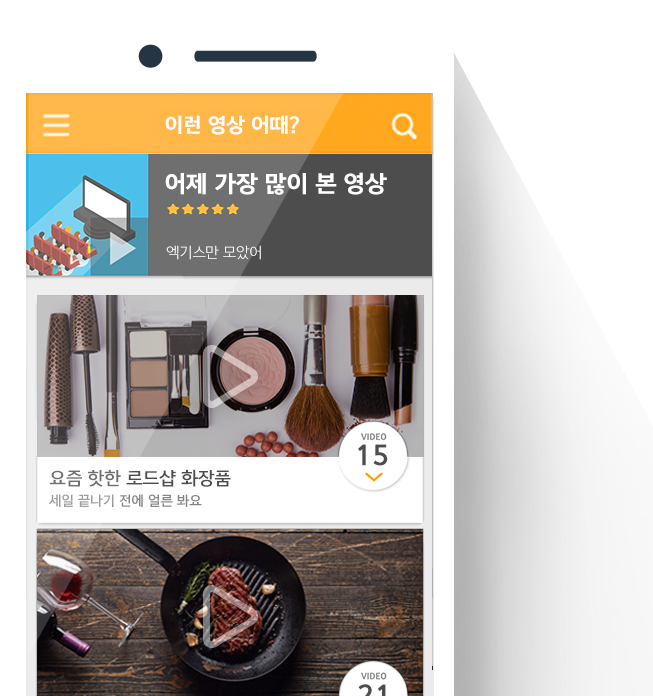
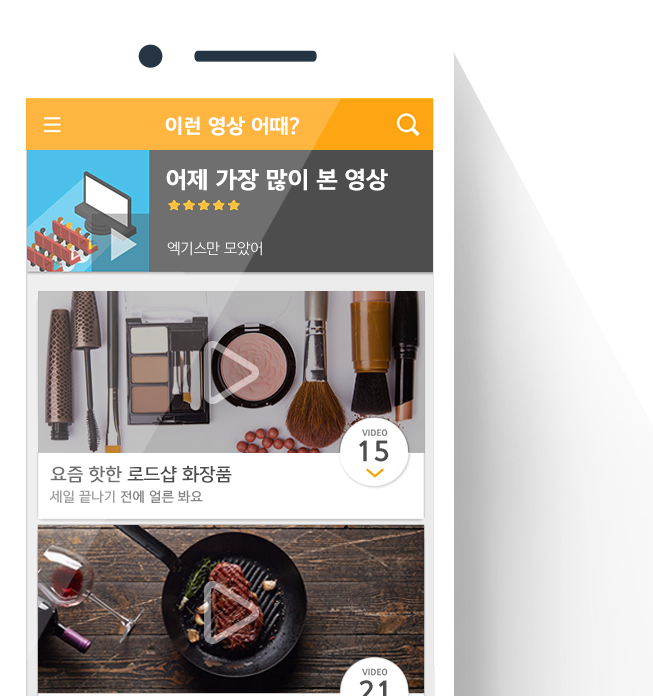
* service step2 진행중.

Changed region(s): [[0.0306, 0.1207, 0.6738, 1.0]]

diff --git a/index.html b/index.html
@@ -158,7 +158,7 @@
           <div class="snackkslider">
             <ul class="slides">
               <li>
-                <div class="col-md-6">
+                <div class="col-md-6 ">
                   <div class="display-table">
                     <div class="top100 display-table-cell">
                       <img src="img/type_top100.png" >
@@ -227,13 +227,13 @@
         </div>
       </div>
       <div class="row content-img">
-        <div class="col-md-4 text-center">
+        <div class="col-md-4 col-sm-4 col-xs-4 text-center">
           <img src="img/jyp.png"></img>
         </div>
-        <div class="col-md-4 text-center">
+        <div class="col-md-4 col-sm-4 col-xs-4 text-center">
           <img src="img/videovillage.png"></img>
         </div>
-        <div class="col-md-4 text-center">
+        <div class="col-md-4 col-sm-4 col-xs-4 text-center">
           <img src="img/leferi.png"></img>
         </div>
       </div>

diff --git a/css/flexslider.css b/css/flexslider.css
@@ -137,10 +137,10 @@ html[xmlns] .flexslider .slides {
   content: '\f105';
 }
 .flex-direction-nav .flex-prev {
-  left: -50px;
+  left: 50px;
 }
 .flex-direction-nav .flex-next {
-  right: -50px;
+  right: 50px;
   text-align: right;
 }
  /* Custom flexslider */
@@ -276,11 +276,11 @@ html[xmlns] .flexslider .slides {
 /* ====================================================================================================================
  * RESPONSIVE
  * ====================================================================================================================*/
-@media screen and (max-width:860px) {
+/*@media screen and (max-width:860px) {
   .flex-direction-nav .flex-prev {
     display: none;
   }
   .flex-direction-nav .flex-next {
     display: none;
   }
-}
+}*/

diff --git a/css/styles.css b/css/styles.css
@@ -471,6 +471,7 @@ madsquare info
   position: relative;
   background: url("../img/background.png") no-repeat center;
   background-size: 100% 100%;
+  padding-bottom: 0px;
 }
 
 .service .title {
@@ -515,6 +516,15 @@ madsquare info
   width: 100%;
 }
 
+.flex-active-slide .display-table {
+  width: 100%;
+}
+
+.snackkslider div,
+.snackkslider p {
+  text-align: center;
+}
+
 .snackkslider .flex-direction-nav li a {
   opacity: 1;
 }
@@ -526,7 +536,8 @@ madsquare info
 }
 
 .snackkslider .snackk-type img {
-  width: 100%;
+  width: 70%;
+  margin-left: 25%;
 }
 
 .office {

diff --git a/css/queries.css b/css/queries.css
@@ -10,7 +10,29 @@
 	.service .content-text {
 		position: absolute;
 	}
+
+	ul.slides li div:nth-of-type(1) {
+		margin: 8% 0;
+	}
+
+	.snackkslider {
+	    padding: 0 3% 0 7%;
+	}
+
+	.snackkslider .snackk-type img {
+	    width: 100%;
+	    margin-left: 0px;
+	}
 }
+
+/* bootstrap lg size */
+@media (min-width: 992px) {
+	ul.slides li div:nth-of-type(1) {
+		margin: 10% 0;
+	}
+}
+
+
 /*
 @media (min-width: 768px) {
 	
